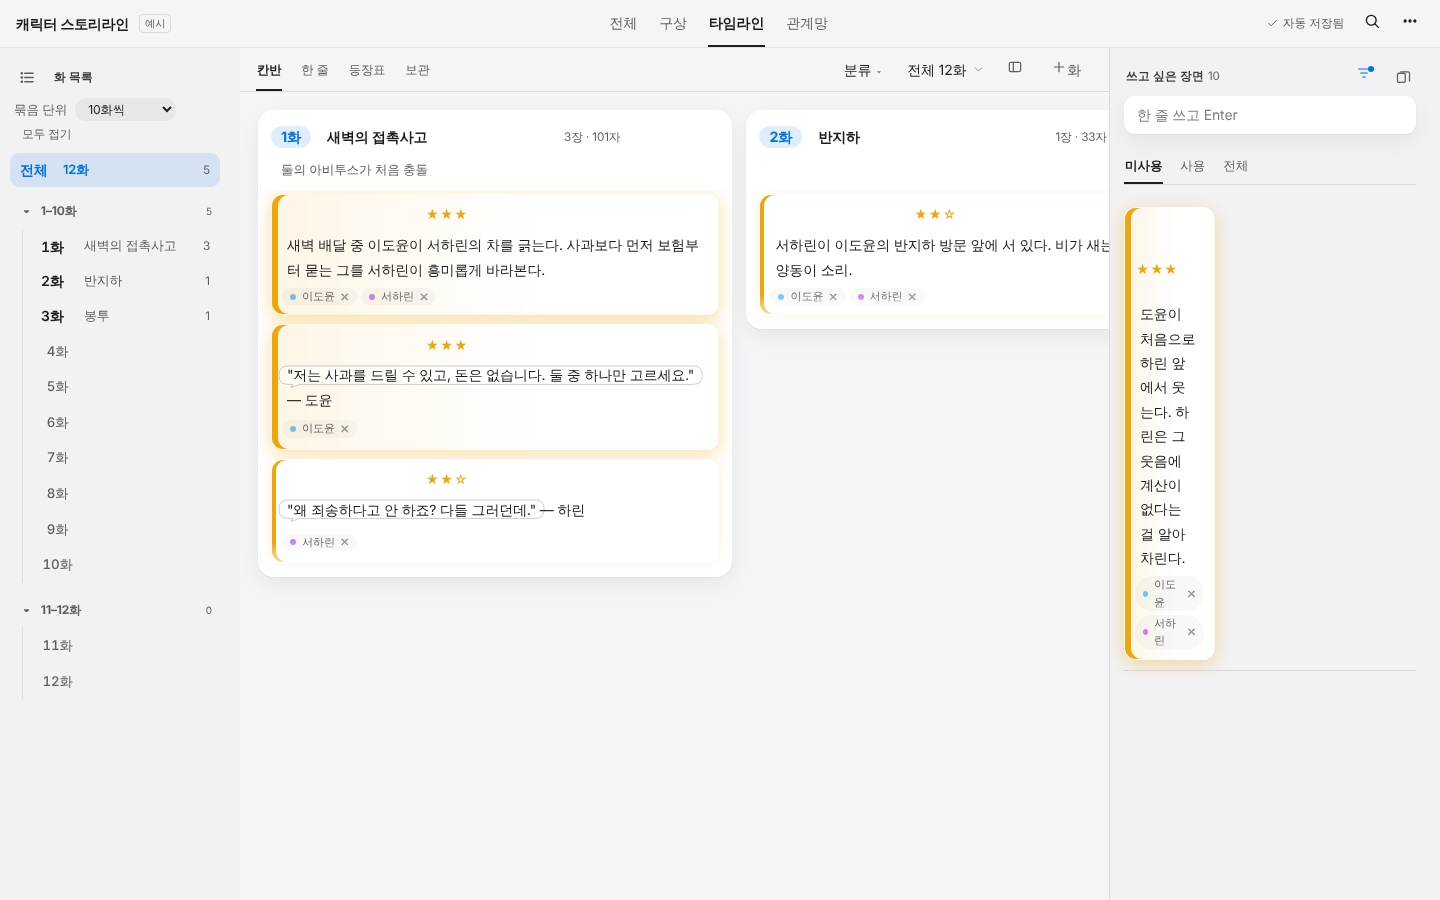
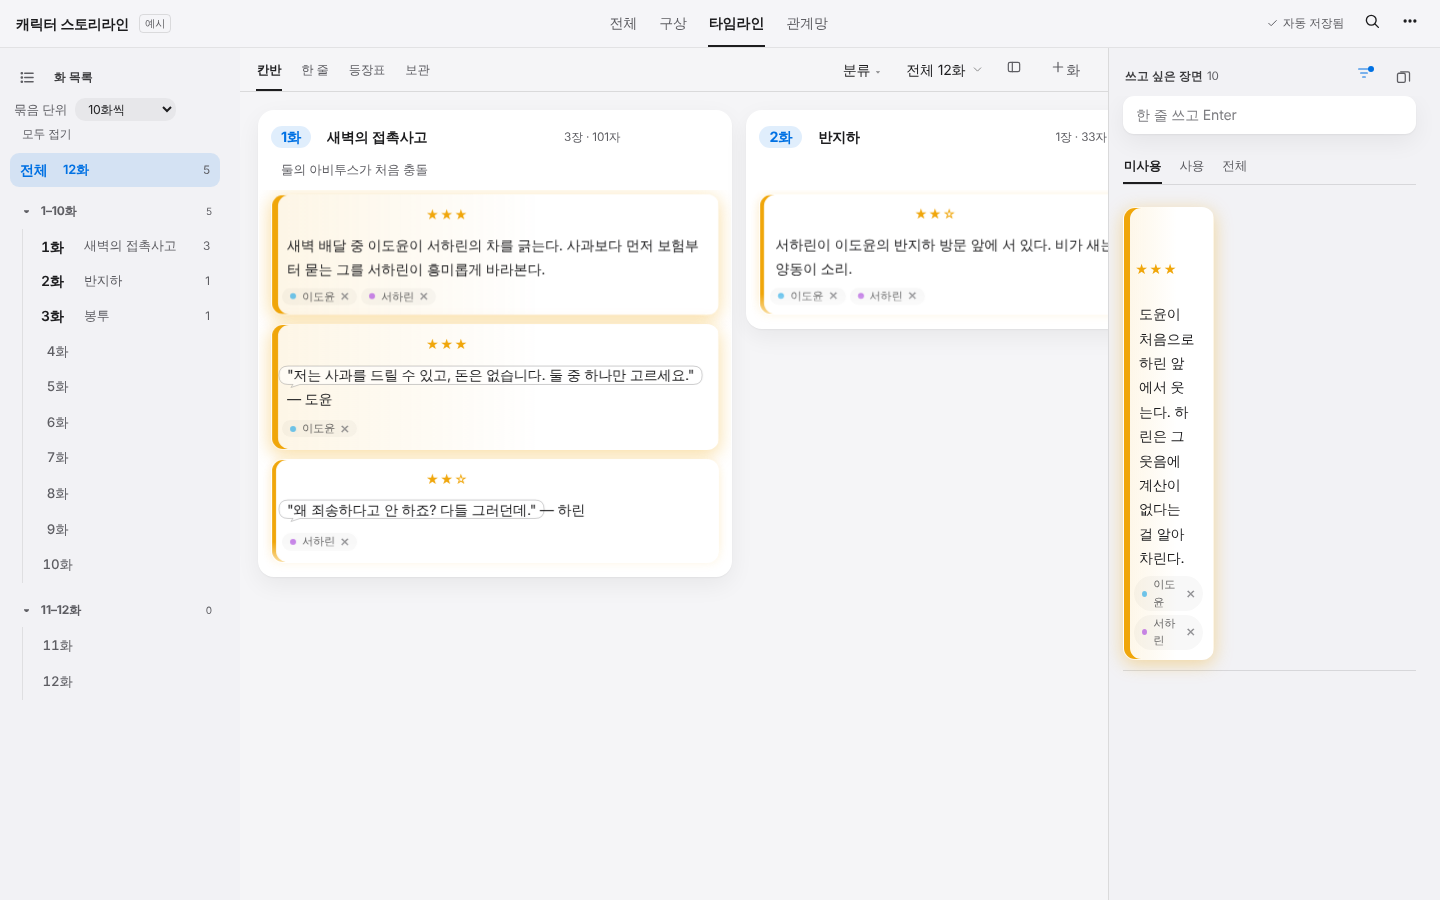
새단장: 장면 나누기 누르기 쉽게 · 보관함 나란히 보기 · 구상 이름 크기
- 장면 나누기를 문단 사이 띠 전체에서 누를 수 있게 하고, 누를 때 카드가 선택되지 않게 함
- 한 화 · 한 묶음만 볼 때는 원고 아래 보관을 빼고, 위쪽 보관함 아이콘으로 원고 옆에 나란히 열기 (서로 끌어 옮기기)
- 구상 머리말 인물 이름을 줄이고 동그라미 아이콘 제거

Claude-Session: https://claude.ai/code/session_014Rzih7JUR2dFNpmHifQdu2

diff --git a/storyline-app/src/features/fresh.js b/storyline-app/src/features/fresh.js
@@ -40,6 +40,7 @@ const frW=()=>UIP.frw||720,frFs=()=>UIP.frfs||16.5;
 function frSetW(w){UIP.frw=Math.max(520,Math.min(1100,Math.round(w/10)*10));const s=document.querySelector('.frsheet');if(s)s.style.setProperty('--frw',UIP.frw+'px');const r=document.querySelector('#frwr');if(r)r.value=UIP.frw}
 function frLineBar(){
   return [h('span',{class:'frscm',title:'장면 구분을 어떻게 보여줄지'},seg([['line','구분선'],['box','묶음']],UIP.frsc==='box'?'box':'line',k=>{UIP.frsc=k;saveUIP();renderMid()})),
+    h('button',{class:'cbtn frshtg'+(UIP.frshs?' on':''),title:UIP.frshs?'보관함 닫기':'보관함 열기 — 원고 옆에 나란히 두고 끌어 옮겨요',onclick:()=>{UIP.frshs=!UIP.frshs;saveUIP();renderMid()}},icon('shelfbox')),
     h('label',{class:'frwctl',title:'글 폭 — 원고 양옆을 끌어도 돼요'},'글 폭',h('input',{id:'frwr',type:'range',min:520,max:1100,step:10,value:frW(),oninput:e=>frSetW(+e.target.value),onchange:saveUIP})),
     h('span',{class:'frfsz',title:'글자 크기'},
       h('button',{class:'quiet','aria-label':'글자 작게',onclick:()=>{UIP.frfs=Math.max(14,frFs()-1);saveUIP();const s=document.querySelector('.frsheet');if(s)s.style.setProperty('--frfs',UIP.frfs+'px')}},'가'),
@@ -68,7 +69,10 @@ function frRenderLine(m,E,lo,hi,build){
   flush();
   frPager(sheet);
   sheet.append(h('button',{class:'fradd',onclick:()=>addEpisode()},'＋ 화 추가'));
-  frShelves(sheet);
+  if(UIP.frshs){      // 보관함을 원고 옆에 나란히 (따로 스크롤)
+    const side=h('div',{class:'frshp'});frShelves(side,true);
+    m.append(h('div',{class:'frline frside'},h('div',{class:'frlcol'},sheet),side));return}
+  if(!UI.tlScope)frShelves(sheet);      // 한 화 · 한 묶음만 볼 때는 원고 아래에 보관을 붙이지 않음 (위쪽 보관함 아이콘으로 열기)
   const wrap=h('div',{class:'frline'},sheet);m.append(wrap);
 }
 
@@ -94,7 +98,8 @@ function frScenes(body,ep){
     els.forEach((el,i)=>{if(!i){el.classList.add('scfirst');return}
       if(seps.has(ids[i])){el.classList.add('scst');
         el.prepend(h('div',{class:'frsep',title:'장면 구분'},h('i',{}),h('button',{class:'frjoin',title:'구분 지우고 앞 장면과 잇기',onclick:e=>{e.stopPropagation();setSeps(a=>a.filter(x=>x!==ids[i]))}},'잇기')))}
-      else el.prepend(h('button',{class:'frcut',title:'여기서 장면 나누기 — 이어지지 않는 장면을 따로 묶어요',onclick:e=>{e.stopPropagation();setSeps(a=>[...a,ids[i]])}},'＋ 장면 나누기'));
+      else{const cut=h('div',{class:'frcut',title:'여기서 장면 나누기 — 이어지지 않는 장면을 따로 묶어요',onclick:e=>{e.stopPropagation();setSeps(a=>[...a,ids[i]])}},h('span',{},'＋ 장면 나누기'));
+        cut.addEventListener('pointerdown',e=>e.stopPropagation());cut.addEventListener('dblclick',e=>e.stopPropagation());el.prepend(cut)}
       if(i===els.length-1||seps.has(ids[i+1]))el.classList.add('sclast')});
     if(els.length&&!els.slice(1).some(e=>e.classList.contains('scst')))els[els.length-1].classList.add('sclast');
   };
@@ -102,14 +107,14 @@ function frScenes(body,ep){
 }
 
 /* 원고 맨 아래: 보관 — 몇 화에 쓸지 아직 안 정한 장면 (보관 탭과 같은 칸) */
-function frShelves(sheet){
+function frShelves(sheet,side){
   const shs=S.shelves||[],newShelf=async()=>{const name=((await askText('새 보관 칸 이름 (예: 30화 이후)','보관'))||'').trim();if(name)act(()=>S.shelves.push({id:uid(),name,cardIds:[]}))};
-  if(!shs.length){sheet.append(h('button',{class:'fradd frshadd',onclick:newShelf},'＋ 보관 칸 · 몇 화에 쓸지 안 정한 장면'));return}
-  sheet.append(h('div',{class:'frshdiv'},h('b',{},'보관'),h('span',{},'몇 화에 쓸지 아직 안 정한 장면')));
+  if(!shs.length&&!side){sheet.append(h('button',{class:'fradd frshadd',onclick:newShelf},'＋ 보관 칸 · 몇 화에 쓸지 안 정한 장면'));return}
+  sheet.append(h('div',{class:'frshdiv'},h('b',{},'보관'),h('span',{},'몇 화에 쓸지 아직 안 정한 장면'),side?h('button',{class:'cbtn frshx',title:'보관함 닫기',onclick:()=>{UIP.frshs=false;saveUIP();renderMid()}},'✕'):null));
   shs.forEach(sh=>{
     const cards=sh.cardIds.map(cardById).filter(Boolean).filter(kindOk);
     const body=h('div',{class:'tlbody'},...cards.map(c=>kcard(c,'tl',{shelfId:sh.id})));
-    if(!cards.length)body.append(h('div',{class:'tlhint'},'오른쪽 카드나 위 원고의 문단을 끌어다 놓기'));
+    if(!cards.length)body.append(h('div',{class:'tlhint'},'원고의 문단이나 오른쪽 카드를 끌어다 놓기'));
     body.addEventListener('dragover',e=>{if(DRAG){e.preventDefault();body.classList.add('over');ghostByY(body,e.clientY)}});
     body.addEventListener('dragleave',e=>{if(!body.contains(e.relatedTarget)){body.classList.remove('over');ghostClearSoon()}});
     body.addEventListener('drop',e=>{e.preventDefault();body.classList.remove('over');if(DRAG){const id=DRAG.id,nb=ghostBeforeId(body);DRAG=null;shelfPlace(id,sh.id,nb)}});
@@ -124,7 +129,6 @@ function frShelves(sheet){
 function frProfile(c,n,hidden){
   const open=!UIP.cl.sheet,goal=(c.longGoal||'').trim(),isSet=c.kind==='setting';
   return h('div',{class:'bhead frprof'},
-    h('span',{class:'frav'+(isSet?' sq':''),style:`--c:${c.color}`},c.icon||frInitial(c.name)),
     h('div',{class:'frwho'},
       h('div',{class:'frnm'},h('b',{},c.name||'(이름 없음)'),c.role?h('small',{},c.role):null,
         h('span',{class:'fracts'},h('span',{class:'cnt'},`${n}장${hidden?` · 숨김 ${hidden}`:''}`),

diff --git a/storyline-app/src/core/utils.js b/storyline-app/src/core/utils.js
@@ -7,7 +7,7 @@ const keyText=s=>IS_MAC||typeof s!=='string'?s:s.replace(/[⌘⌥⇧⌫]/g,(g,i)
 const modKey=e=>IS_MAC?e.metaKey:e.ctrlKey;      // 맥 ⌘ · Windows Ctrl
 const uid=()=>Math.random().toString(36).slice(2,10);
 /* 선 아이콘 (이모지 대신 통일된 모양) */
-const ICONS={sticky:'<path d="M5 4.5h14v9.5l-5.5 5.5H5z"/><path d="M13.5 19.5V14H19"/><path d="M8.5 9h7M8.5 12.5h4"/>',copy:'<rect x="9" y="9" width="11" height="11" rx="2.5"/><path d="M15 9V6.5A2.5 2.5 0 0 0 12.5 4h-6A2.5 2.5 0 0 0 4 6.5v6A2.5 2.5 0 0 0 6.5 15H9"/>',zen:'<rect x="5" y="4.5" width="14" height="15" rx="2.5"/><path d="M8.5 9.5h7M8.5 13h5"/><path d="M2.5 8v8M21.5 8v8" opacity=".55"/>',noteplus:'<path d="M14 3.5H7.5a2 2 0 0 0-2 2v13a2 2 0 0 0 2 2h9a2 2 0 0 0 2-2V8z"/><path d="M14 3.5V8h4.5M12 11.5v5M9.5 14h5"/>',folderplus:'<path d="M3.5 7.5a2 2 0 0 1 2-2h4l2 2.2h7a2 2 0 0 1 2 2v7.8a2 2 0 0 1-2 2h-13a2 2 0 0 1-2-2z"/><path d="M12 10.8v5M9.5 13.3h5"/>',xcol:'<rect x="3.5" y="5" width="17" height="14" rx="2.5"/><path d="M9.5 5v14"/>',list:'<path d="M8 6h12M8 12h12M8 18h12"/><circle cx="4" cy="6" r="1" fill="currentColor"/><circle cx="4" cy="12" r="1" fill="currentColor"/><circle cx="4" cy="18" r="1" fill="currentColor"/>',people:'<circle cx="9" cy="8" r="3.2"/><path d="M3 19c.8-3.4 3.2-5 6-5s5.2 1.6 6 5"/><circle cx="17" cy="9" r="2.4"/><path d="M16.5 14c2.2.2 3.8 1.6 4.5 4"/>',sheet:'<rect x="5" y="3.5" width="14" height="17" rx="2.5"/><path d="M9 8h6M9 12h6M9 16h4"/>',cards:'<rect x="3.5" y="6" width="11" height="13" rx="2"/><path d="M8 4h10.5a2 2 0 0 1 2 2v11"/>',filter:'<path d="M4 6h16M7 12h10M10 18h4"/>',search:'<circle cx="11" cy="11" r="6.5"/><path d="M16 16l4.5 4.5"/>',plusc:'<path d="M12 6v12M6 12h12"/>',eye:'<path d="M2.5 12s3.5-6.5 9.5-6.5S21.5 12 21.5 12 18 18.5 12 18.5 2.5 12 2.5 12z"/><circle cx="12" cy="12" r="2.8"/>',grid:'<rect x="4" y="4" width="6.5" height="6.5" rx="1.5"/><rect x="13.5" y="4" width="6.5" height="6.5" rx="1.5"/><rect x="4" y="13.5" width="6.5" height="6.5" rx="1.5"/><rect x="13.5" y="13.5" width="6.5" height="6.5" rx="1.5"/>',brush:'<path d="M14.5 4.5l5 5-8 8H6.5v-5z"/><path d="M12.5 6.5l5 5"/>',chevL:'<path d="M15 6l-6 6 6 6"/>',chevR:'<path d="M9 6l6 6-6 6"/>',plus:'<path d="M12 5v14M5 12h14"/>',minus:'<path d="M5 12h14"/>',
+const ICONS={sticky:'<path d="M5 4.5h14v9.5l-5.5 5.5H5z"/><path d="M13.5 19.5V14H19"/><path d="M8.5 9h7M8.5 12.5h4"/>',copy:'<rect x="9" y="9" width="11" height="11" rx="2.5"/><path d="M15 9V6.5A2.5 2.5 0 0 0 12.5 4h-6A2.5 2.5 0 0 0 4 6.5v6A2.5 2.5 0 0 0 6.5 15H9"/>',zen:'<rect x="5" y="4.5" width="14" height="15" rx="2.5"/><path d="M8.5 9.5h7M8.5 13h5"/><path d="M2.5 8v8M21.5 8v8" opacity=".55"/>',noteplus:'<path d="M14 3.5H7.5a2 2 0 0 0-2 2v13a2 2 0 0 0 2 2h9a2 2 0 0 0 2-2V8z"/><path d="M14 3.5V8h4.5M12 11.5v5M9.5 14h5"/>',folderplus:'<path d="M3.5 7.5a2 2 0 0 1 2-2h4l2 2.2h7a2 2 0 0 1 2 2v7.8a2 2 0 0 1-2 2h-13a2 2 0 0 1-2-2z"/><path d="M12 10.8v5M9.5 13.3h5"/>',shelfbox:'<rect x="3.5" y="4.5" width="17" height="4.5" rx="1.5"/><path d="M5 9v9a2 2 0 0 0 2 2h10a2 2 0 0 0 2-2V9"/><path d="M10 13h4"/>',xcol:'<rect x="3.5" y="5" width="17" height="14" rx="2.5"/><path d="M9.5 5v14"/>',list:'<path d="M8 6h12M8 12h12M8 18h12"/><circle cx="4" cy="6" r="1" fill="currentColor"/><circle cx="4" cy="12" r="1" fill="currentColor"/><circle cx="4" cy="18" r="1" fill="currentColor"/>',people:'<circle cx="9" cy="8" r="3.2"/><path d="M3 19c.8-3.4 3.2-5 6-5s5.2 1.6 6 5"/><circle cx="17" cy="9" r="2.4"/><path d="M16.5 14c2.2.2 3.8 1.6 4.5 4"/>',sheet:'<rect x="5" y="3.5" width="14" height="17" rx="2.5"/><path d="M9 8h6M9 12h6M9 16h4"/>',cards:'<rect x="3.5" y="6" width="11" height="13" rx="2"/><path d="M8 4h10.5a2 2 0 0 1 2 2v11"/>',filter:'<path d="M4 6h16M7 12h10M10 18h4"/>',search:'<circle cx="11" cy="11" r="6.5"/><path d="M16 16l4.5 4.5"/>',plusc:'<path d="M12 6v12M6 12h12"/>',eye:'<path d="M2.5 12s3.5-6.5 9.5-6.5S21.5 12 21.5 12 18 18.5 12 18.5 2.5 12 2.5 12z"/><circle cx="12" cy="12" r="2.8"/>',grid:'<rect x="4" y="4" width="6.5" height="6.5" rx="1.5"/><rect x="13.5" y="4" width="6.5" height="6.5" rx="1.5"/><rect x="4" y="13.5" width="6.5" height="6.5" rx="1.5"/><rect x="13.5" y="13.5" width="6.5" height="6.5" rx="1.5"/>',brush:'<path d="M14.5 4.5l5 5-8 8H6.5v-5z"/><path d="M12.5 6.5l5 5"/>',chevL:'<path d="M15 6l-6 6 6 6"/>',chevR:'<path d="M9 6l6 6-6 6"/>',plus:'<path d="M12 5v14M5 12h14"/>',minus:'<path d="M5 12h14"/>',
   more:'<circle cx="5.5" cy="12" r="1.3" fill="currentColor"/><circle cx="12" cy="12" r="1.3" fill="currentColor"/><circle cx="18.5" cy="12" r="1.3" fill="currentColor"/>',
   table:'<rect x="3.5" y="4.5" width="17" height="15" rx="2.5"/><path d="M3.5 10h17M9.5 4.5v15"/>',
   graph:'<circle cx="6" cy="7" r="2.6"/><circle cx="18" cy="6" r="2.6"/><circle cx="12" cy="18" r="2.6"/><path d="M8.5 6.8l7-.6M7.3 9.3l3.5 6.4M16.8 8.4l-3.6 7.3"/>',

diff --git a/storyline-app/styles/fresh.css b/storyline-app/styles/fresh.css
@@ -230,7 +230,7 @@
 .frav.sq{border-radius:12px}
 .frwho{flex:1;min-width:0}
 .frnm{display:flex;align-items:baseline;gap:10px}
-.ui3 .frnm b{font:700 24px/1.25 var(--fr-story);white-space:nowrap;overflow:hidden;text-overflow:ellipsis}
+.ui3 .frnm b{font:700 18px/1.3 var(--fr-story);white-space:nowrap;overflow:hidden;text-overflow:ellipsis}
 .frnm small{color:var(--sub);font-size:12.5px;white-space:nowrap}
 .frsum{margin:4px 0 0;color:var(--sub);font-size:13px;max-width:36em;white-space:nowrap;overflow:hidden;text-overflow:ellipsis}
 .frgoal{margin:4px 0 0;font-size:12.5px;cursor:pointer;max-width:36em;white-space:nowrap;overflow:hidden;text-overflow:ellipsis}
@@ -291,10 +291,13 @@
 .ui3 .frch .kcard.tl.fr:not(.frmemo) .kwrap .ktext:not([readonly]){color:var(--ink)!important;caret-color:var(--ink)}
 
 /* 장면 나누기 */
-.frcut{position:absolute;left:50%;top:-9px;transform:translateX(-50%);z-index:4;font-size:11px;line-height:1;padding:3px 9px;border-radius:999px;border:0;background:var(--card);color:var(--sub);box-shadow:0 0 0 1px var(--line);opacity:0;pointer-events:none;transition:opacity .15s;white-space:nowrap;min-height:0}
-.kcard.fr:hover>.frcut{opacity:.9;pointer-events:auto}
-.frcut:hover{color:var(--acc)}
-.kcard.fr:is(.dragging,.editing)>:is(.frcut,.frsep){display:none}
+.frcut{position:absolute;left:0;right:0;top:-9px;height:14px;z-index:5;cursor:pointer;display:flex;align-items:center;justify-content:flex-start;padding-left:24px}
+.frcut::before{content:"";position:absolute;left:16px;right:16px;top:50%;border-top:1px dashed var(--acc);opacity:0;transition:opacity .12s}
+.frcut span{position:relative;font-size:11px;line-height:1;padding:3px 9px;border-radius:999px;background:var(--card);color:var(--acc);box-shadow:0 0 0 1px var(--acc-soft);opacity:0;transition:opacity .12s;white-space:nowrap}
+.frcut:hover::before{opacity:.6}
+.frcut:hover span{opacity:1}
+body:has(.kcard.dragging) .frcut,.kcard.fr.editing>.frcut{display:none}
+.kcard.fr:is(.dragging,.editing)>.frsep{display:none}
 .ui3 .kcard.tl.fr.scst{margin-top:34px}
 .frsep{position:absolute;left:16px;right:16px;top:-34px;height:34px;display:flex;align-items:center}
 .frsep i{display:block;width:100%;border-top:1px dashed var(--line)}
@@ -322,3 +325,16 @@
 .frpg b{font:600 17px/1.3 var(--fr-story)}
 .frpg:hover{background:var(--acc-soft)}
 .frpg:hover b{color:var(--acc)}
+
+/* 보관함 나란히: 원고 | 보관 (따로 스크롤) */
+.ui3 .frline.frside{display:flex;gap:22px;overflow:hidden;padding:0 0 0 28px}
+.frside>.frlcol{flex:1 1 auto;min-width:0;overflow:auto;padding:24px 0 60px}
+.frshp{flex:0 0 340px;overflow:auto;padding:24px 22px 60px 18px;border-left:1px solid var(--line);background:var(--side)}
+.frshp .frshdiv{margin-top:0;padding-top:0;border-top:0;display:flex;align-items:baseline;gap:10px}
+.frshp .frshx{margin-left:auto;font-size:12px}
+.frshp .frch.shelf{margin:0 0 26px}
+.frshp .frch::before{display:none}
+.ui3 .frshp .frch .kcard.tl.fr .ktext,.ui3 .frshp .frch .kcard.tl.fr .kmir{font-size:14px;line-height:1.8}
+.ui3 .frshp .frch .kcard.tl.fr{margin:0 -8px}
+.ui3 .frshp .frch .kcard.tl.fr .frrow{display:none}
+.frshtg.on{color:var(--acc);background:var(--acc-soft)}

diff --git a/README.md b/README.md
@@ -40,10 +40,10 @@
 - 구상 보드를 줄여 글이 안 읽힐 만큼 작아지면 포스트잇이 **모양만**(분류 색 · 글 줄 · 인물 점 · 별 · 핀 · 실) 남아요. 올리면 원래 크기 미리보기, 누르면 원본이 떠서 바로 고치고, 두 번 누르면 그 자리로 확대돼요. 기준은 설정 → 겉모습 → 작게 보기.
 - 오른쪽 목록은 같은 모양의 작은 포스트잇 아이콘이에요. 올리면 미리보기, 끌면 원래 포스트잇이 따라와요 (**크게**로 바꿀 수 있어요). 위에는 아직 안 쓴 장면이 **N장 남음**으로 보여요.
 - 한 줄 보기에서 카드 안의 새 문단 · 대사도 모두 한 칸 들여써요.
-- 같은 화 안에서도 이어지지 않는 장면은 문단 사이에 마우스를 올려 **＋ 장면 나누기**로 나눠요. 위쪽 막대에서 **구분선 / 묶음** 모양을 고르고, 이어지게 되면 **잇기**로 지워요 (칸반에도 구분선이 보여요).
+- 같은 화 안에서도 이어지지 않는 장면은 문단과 문단 사이(점선이 보이는 곳)를 눌러 **＋ 장면 나누기**로 나눠요. 위쪽 막대에서 **구분선 / 묶음** 모양을 고르고, 이어지게 되면 **잇기**로 지워요 (칸반에도 구분선이 보여요).
 - 한 화 · 한 묶음씩 볼 때는 원고 끝에 **← 이전 · 다음 →** 이 있어요.
 - 칸반 위쪽 막대의 **칸 폭**으로 화 칸 너비를 바로 조절해요.
-- 한 줄 보기 맨 아래에 **보관** 칸이 이어져요. 몇 화에 쓸지 안 정한 장면을 넣어 두고, 나중에 **화로 보내기**로 옮겨요.
+- 한 줄 보기 위쪽 **보관함** 아이콘을 누르면 원고 옆에 보관 칸이 나란히 열려요. 몇 화에 쓸지 안 정한 장면을 양쪽으로 끌어 옮기고, **화로 보내기**로 한꺼번에 보내요. (전체 보기에서는 원고 맨 아래에도 보관이 이어져요.)
 - 구상 화면 위쪽은 인물 이름 · 역할 · 한 줄 요약 · 목표만 보이는 머리말이고, 인물 시트는 **시트 펼치기**를 눌러야 열려요. 포스트잇 · 시트 · 왼쪽 목록도 이야기 글꼴로 맞췄어요 (설정에서 글꼴을 고르면 그 글꼴을 써요).
 
 ### 관계망: 함께 나온 만큼 가까이
